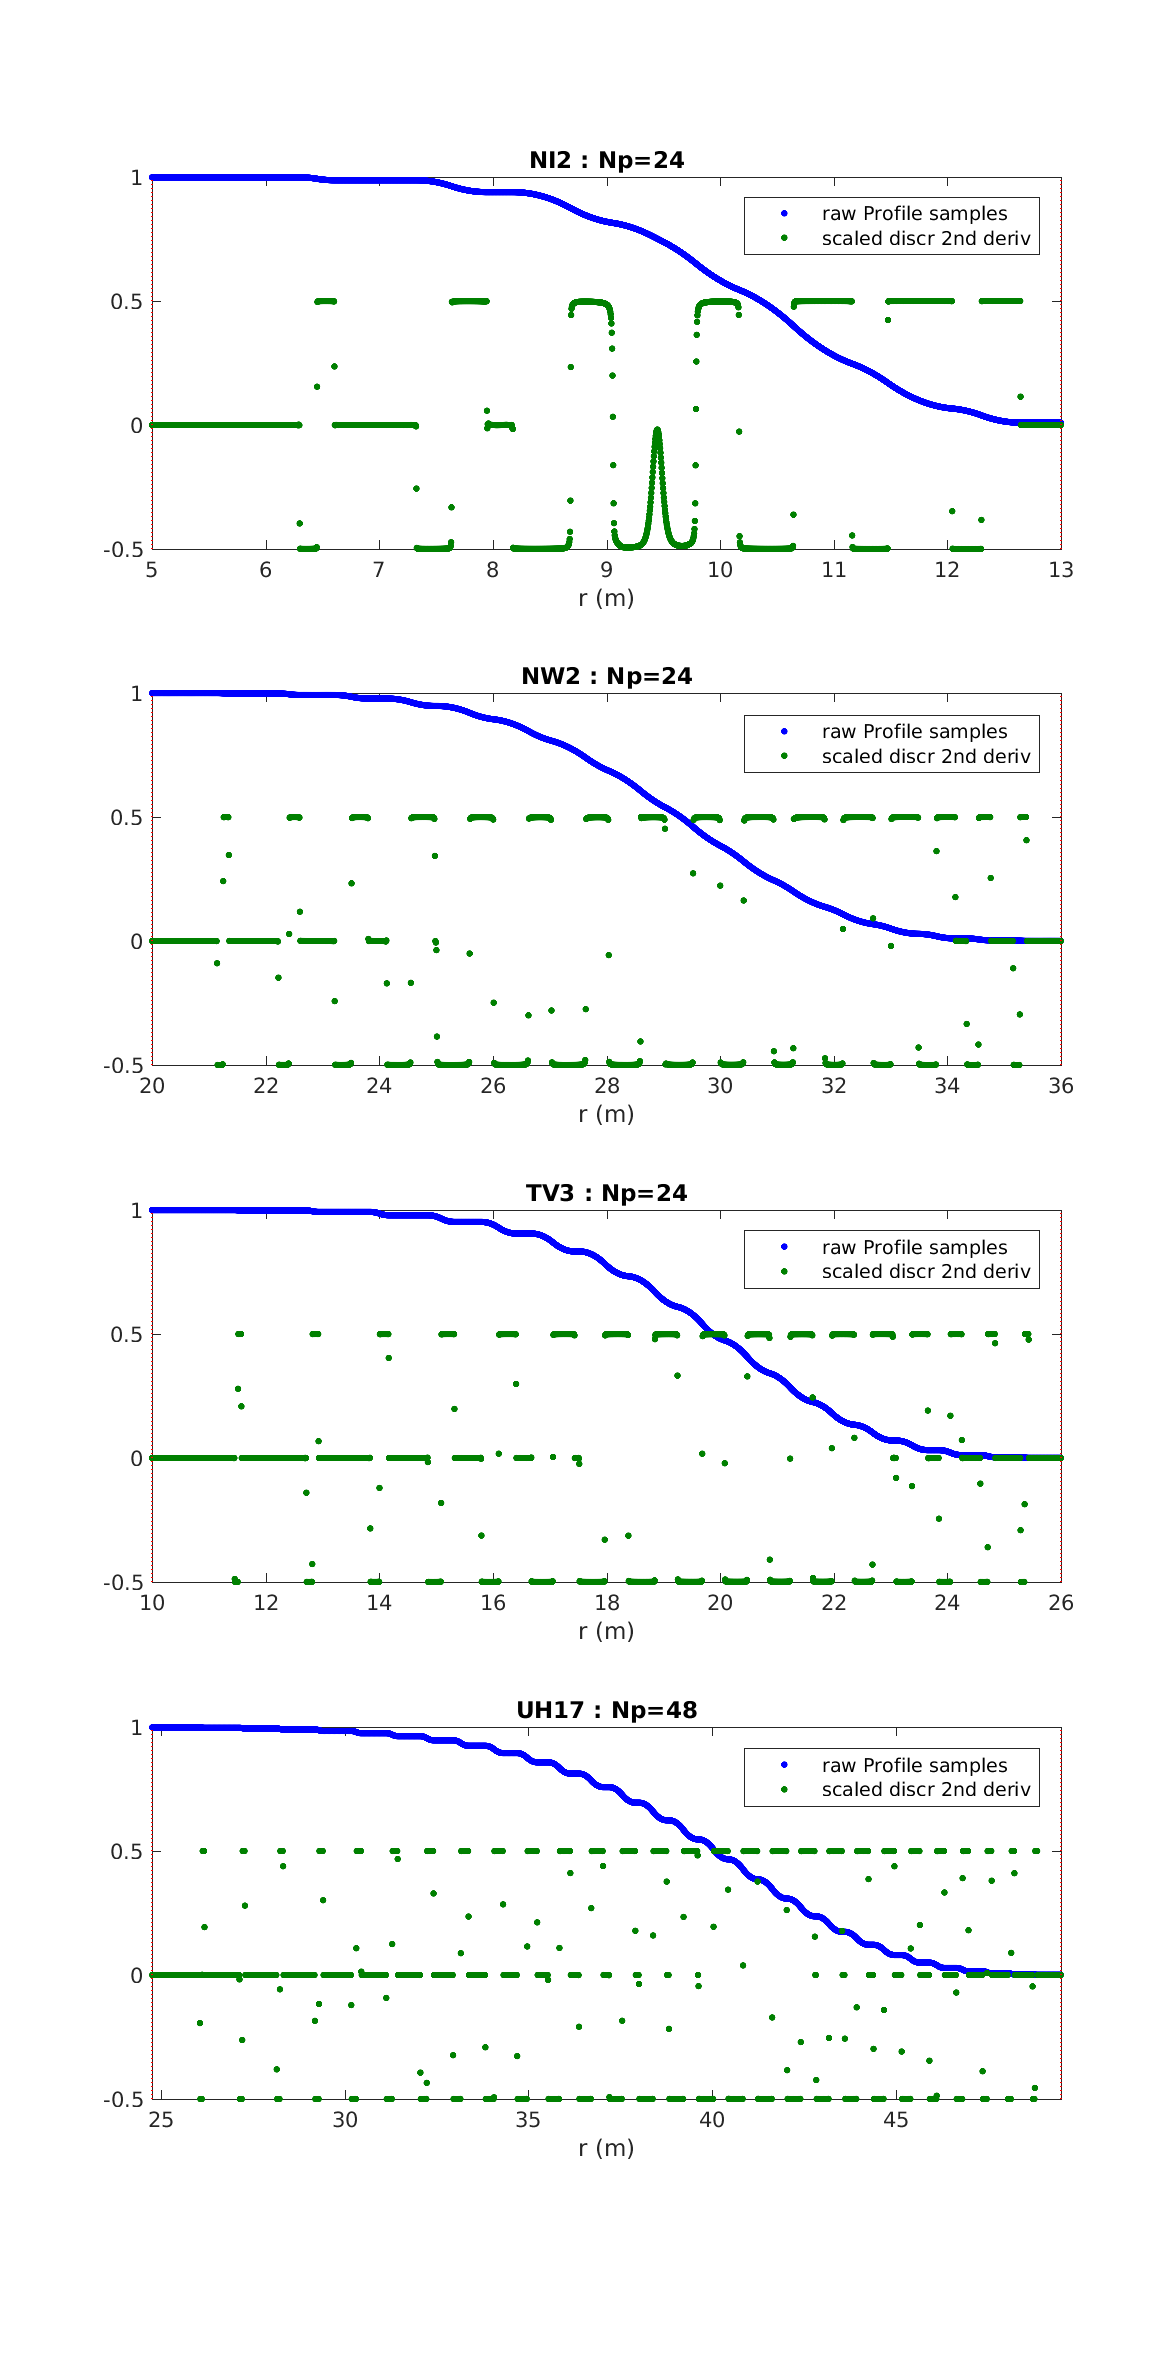
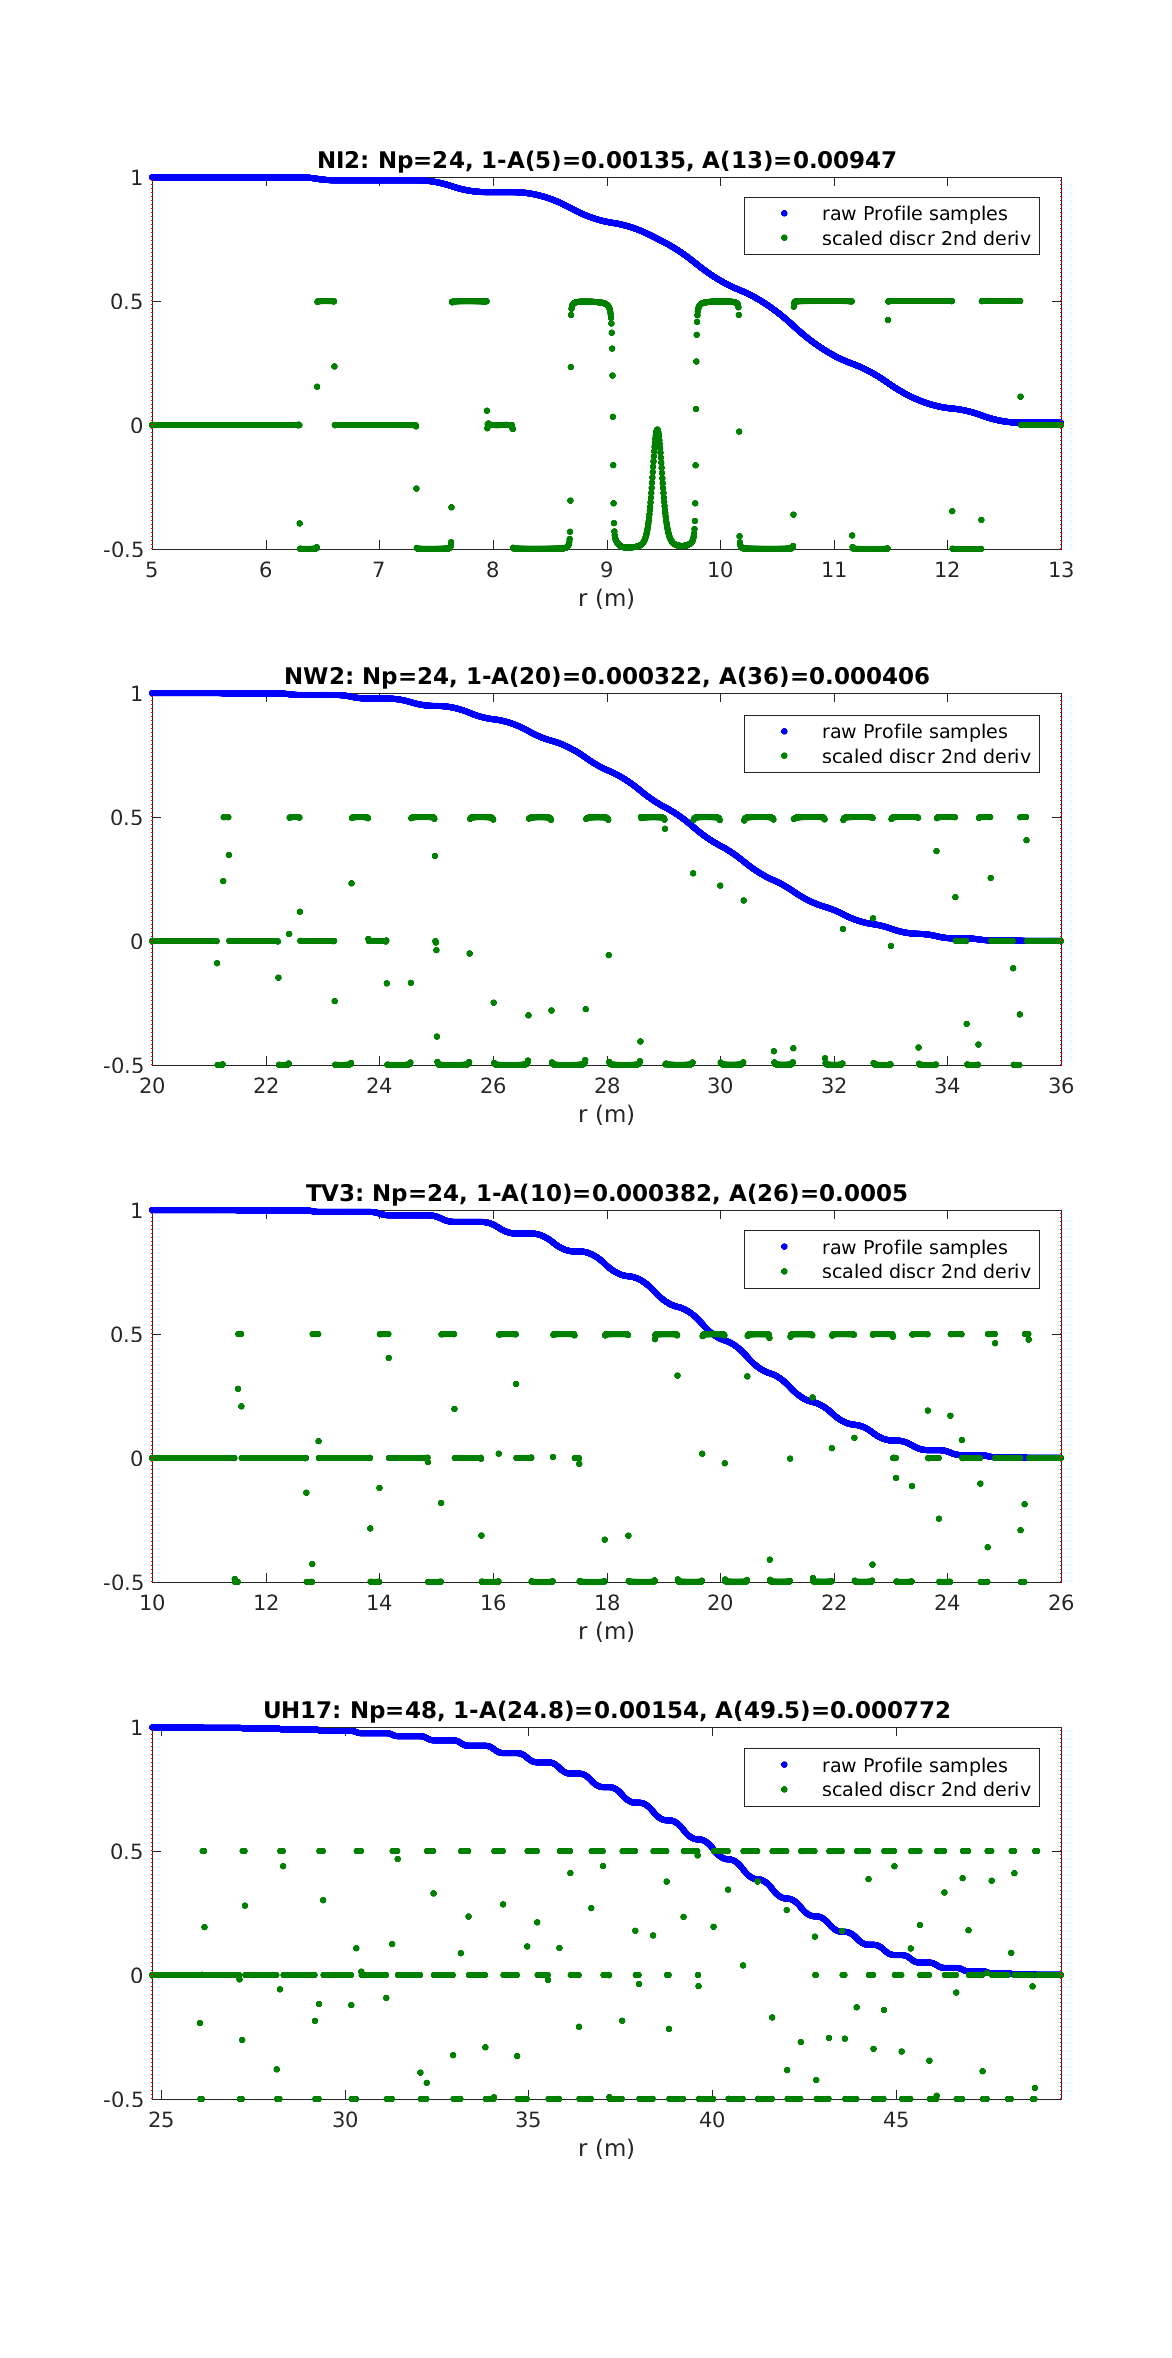
overlay Fresnel zones; still exposing problem with cutoff tips ruining the 1e-10 shadow - scary

diff --git a/demo_starshades.m b/demo_starshades.m
@@ -5,10 +5,10 @@ clear; verb = 1;  % verbosity
 tol = 1e-9;       % desired accuracy
 lambdaz = 9.0;    % wavelength*dist, in m^2, recall Fres # = Reff^2/(lambda.z)
 
-design = 'NI2';   % choose design from below list...
+design = 'erf';   % choose design from below list...
 switch design 
  case 'disc'
-  Np = 1; r0=5; r1=10; Afunc = @(r) 1+0*r;    % 10 m radius disc: Poisson spot
+  Np = 1; r0=5; r1=10; Afunc = @(r) 1+0*r; % 10m radius disc: Poisson spot u=1!
   n = 600; m = 80;                  % Afunc=1, r0, dummy hacks. Good to lz>=5 
  case 'lin'
   Np = 24; r0=5; r1=13; Afunc = @(r) (r1-r)/(r1-r0);   % simple linear apod.
@@ -17,12 +17,14 @@ switch design
   A = @(t) exp(-(t/0.6).^6);        % Cash'11 hyper-Gaussian on [0,1]
   Np = 16; r0 = 7; r1 = 14;         % # petals, inner, outer radii in meters
   Afunc = @(r) A((r-r0)/(r1-r0));   % apodization vs radius in meters
-  n = 30; m = 80;       % 
+  n = 30; m = 80;
  case 'erf'                         % my analytic toy model, similar r0,r1
   Np=16; r0 = 7; r1 = 14;           % # petals, inner, outer radii in meters
   beta = 3.0;                       % good for A or 1-A to decay to 1e-5
   Afunc = @(r) erfc(beta*(2*r-(r0+r1))/(r1-r0))/2;
-  fprintf('1-A(%.5g)=%.3g, A(%.5g)=%.3g\n',r0,1-Afunc(r0),r1,Afunc(r1))  % check
+  %e=1e-3; Afunc = @(r) e + (1-e)*Afunc(r); % fatten the tips: get u(0,0)~e
+  e=1e-2; Afunc = @(r) e*(r1-r)/(r1-r0) + (1-e)*Afunc(r);  % sharp linear tips
+  %e=1e-3; Afunc = @(r) (1-e)*Afunc(r); % fatten the gaps: get u(0,0)~e
   n = 30; m = 100;       % good to lambdaz>=9; convergence must be tested
  case 'NI2'                         % actual NI2 starshade, cubic interpolated
   cwd = fileparts(mfilename('fullpath')); file = [cwd '/occulter/NI2'];
@@ -41,14 +43,17 @@ switch design
   % try destroying the 1e-2 Poisson spot due to both petal flat ends...
   %Afunc = @(r) Afunc(r).*((r<=12) + (r>12).*cos(pi/2*(r-12)).^2); % C^1 blend
   %Afunc = @(r) 1 - (1-Afunc(r)).*((r>=6) + (r<6).*cos(pi/2*(6-r)).^2);  % "
-  n = 40; m = 400;    % use quad_conv_apod_NI2 converged m (to 1e-6), lz>=5
+  n = 50; m = 700;    % use quad_conv_apod_NI2 converged m (to 1e-6), lz>=5
+  lambdaz = 20;       % bigger since Reff~27 bigger.
 end
+fprintf('apod: 1-A(%.5g)=%.3g, A(%.5g)=%.3g\n',r0,1-Afunc(r0),r1,Afunc(r1))
+
 
 [xq yq wq bx by] = starshadequad(Np,Afunc,r0,r1,n,m,verb);   % fill areal quadr
 
 if verb>1, figure(1); clf; scatter(xq,yq,10,wq); axis equal tight; colorbar;
   hold on; plot([bx;bx(1)], [by;by(1)], 'k-'); title('starshade quadr');
-  xi = -5.0; eta = -10.0;     % see Fresnel integrand resolved for a target...
+  xi = -5; eta = -10;     % see Fresnel integrand resolved for a target...
   int = exp((1i*pi/lambdaz)*((xq-xi).^2+(yq-eta).^2));  % integrand w/o prefac
   figure(2); clf; scatter(xq,yq,10,real(int)); axis equal tight; colorbar;
   hold on; plot([bx;bx(1)], [by;by(1)], 'k-'); title('Fresnel integrand');

diff --git a/util/overlay_zones.m b/util/overlay_zones.m
@@ -1,0 +1,34 @@
+function h = overlay_zones(lambdaz,xi,eta,lt,nmax)
+% OVERLAY_ZONES  plots Fresnel zones on current plot centered at (xi,eta)
+%
+% h = overlay_zones(lambdaz,xi,eta,lt) plots on current axes a set of
+%  Fresnel zones (as circles), without changing the current axes, and
+%  returning a graphics handle to these circles. If (xi,eta), the center
+%  of the zone, is not given, it is taken as (0,0).
+%
+%  Recall zones are defined as integer multiples of lambda/2 in extra path
+%  length, in the Fresnel approximation. Thus for a source at infinity, the
+%  nth zone has radius r_n := sqrt(n.lambda.z).
+%
+% Inputs:
+%  lambdaz   - product of wavelength and downstream distance (in meters^2)
+%  xi, eta   - (optional) center in the (xi,eta) plane of the Fresnel zones
+%  lt        - (optional) MATLAB plot linetype for the circles
+%  nmax      - (optional) maximum n to add zones up to
+%
+% Outputs:
+%  h         - vector of MATLAB graphics handles to the set of circles
+
+% Barnett 9/9/20
+if nargin<2, xi=0; eta=0; end
+if nargin<4 || isempty(lt), lt = 'w-'; end
+if nargin<5, nmax = 100; end
+
+hold on; v = axis;
+n=1e3; t=2*pi*(0:n)/n; x=cos(t); y=sin(t);    % unit circle
+h = [];
+for zone=1:nmax
+  r = sqrt(zone*lambdaz);
+  h = [h plot(xi+r*x,eta+r*y,lt)];            % append plot handles
+end
+axis(v);

diff --git a/occulter/show_sister_profiles.m b/occulter/show_sister_profiles.m
@@ -18,9 +18,11 @@ for i=1:nfs
   ypp = [0;diff(y,2);0];          % discrete 2nd deriv assuming unif samples
   plot(x, [y, 0.5*ypp/max(ypp)],'.','markersize',10); xlabel('r (m)');
   vline([r0 r1]);
-  title(sprintf('%s : Np=%d',fs{i},o.numPetals))
+  title(sprintf('%s: Np=%d, 1-A(%.3g)=%.3g, A(%.3g)=%.3g',fs{i},o.numPetals,r0,1-y(1),r1,y(end)))
   axis tight; legend('raw Profile samples', 'scaled discr 2nd deriv');
   % optionally overlay the interpolated func...
   %A = @(r) eval_sister_apod(file,r);
   %r = linspace(r0,r1,1e4); hold on; plot(r,A(r),'r-');
 end
+
+%print -dpng all_sister_profiles.png

diff --git a/README.md b/README.md
@@ -1,8 +1,11 @@
 # fresnap
 
 **FRESN**el **AP**ertures: 
-fast Fourier method for computation of scalar Fresnel diffraction from
+Fast non-uniform Fourier areal quadrature
+method for computation of scalar Fresnel diffraction from
 0-1 (hard-edged) apertures and occulters.
+
+*Here is an example computation of diffracted intensity on a million-point grid, to 9-digit accuracy, at Fresnel number 20, in 0.05 sec on a laptop. All fringes are correct and not numerical or sampling artifacts. The occulter boundary is shown in white:*
 
 ![fresnap demo image](pics/kite_grid.png "Example computation of diffracted intensity on a million-point grid, to 9-digit accuracy, at Fresnel number 20, in 0.05 sec on a laptop. All fringes are correct and not numerical or sampling artifacts. The occulter boundary is shown in white.")
 
@@ -18,10 +21,15 @@ Add ``finufft/matlab`` to your MATLAB path.
 In MATLAB run ``startup`` then ``fresnap_grid`` to run tests which should
 produce very small error outputs and take <0.1 sec to run.
 
-The main user functions are:
+The main library functions we provide are:
 
 * ``fresnap_grid.m`` : compute diffracted amplitude on regular square centered grid
 * ``fresnap_pts.m`` : compute diffracted amplitude at arbitrary target points
 
 Both routines can be tested by calling them with no arguments.
-Also see ``demo_*.m``.
+
+# demos
+
+The user should run ``demo_*.m`` to produce pretty pictures and see
+how to call the library. Since areal quadratures are key, there are various
+quadrature helper routines in ``util`` used in the tests and demos.
